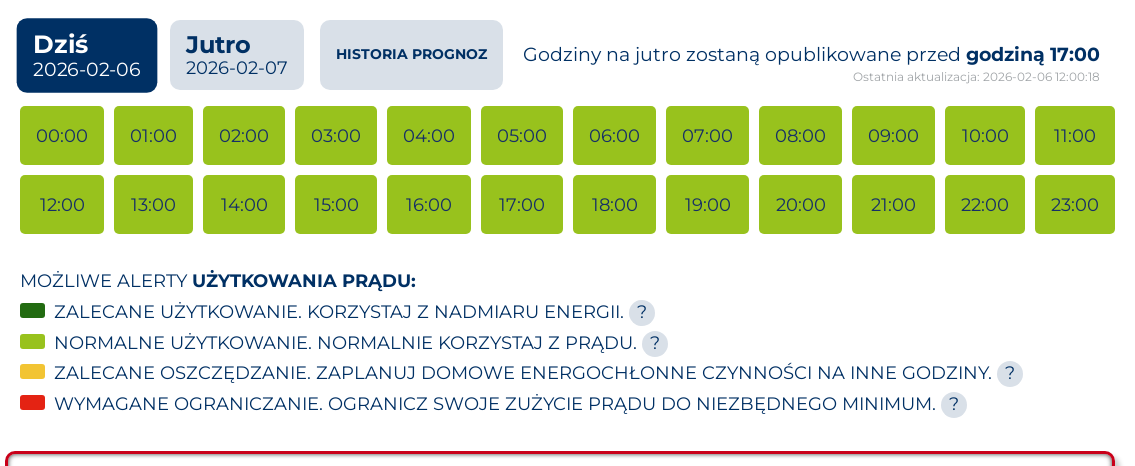
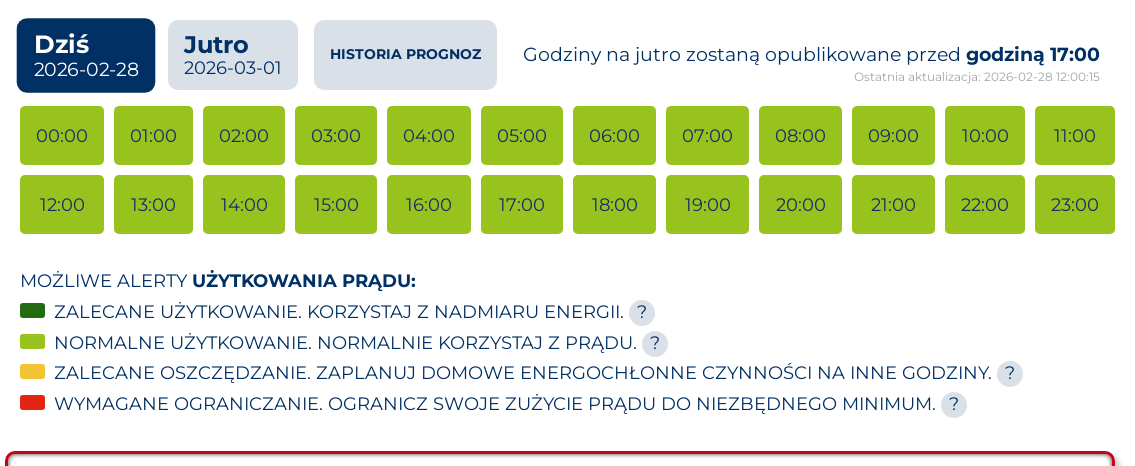
site: update 2026-02-28 12:00 UTC

Changed region(s): [[0.0925, 0.0601, 0.4626, 0.1803], [0.7401, 0.1502, 0.9559, 0.1803], [0.0308, 0.0901, 0.0925, 0.1202]]

diff --git a/site/html_02_raport_ze_stanu_teraz.html b/site/html_02_raport_ze_stanu_teraz.html
@@ -18,7 +18,7 @@
   </div>
 
   <section class="hero">
-    <div class="kicker">Ostatni odczyt: 28.02.2026 12:45</div>
+    <div class="kicker">Ostatni odczyt: 28.02.2026 13:00</div>
     <h1>Raport ze stanu teraz</h1>
     <p>
       Taryfy Tauron:
@@ -42,7 +42,7 @@
       <tbody>
         <tr>
           <th style="width:40%;">Czas odczytu</th>
-          <td>28.02.2026 12:45</td>
+          <td>28.02.2026 13:00</td>
         </tr>
         <tr>
           <th>Położenie</th>
@@ -62,11 +62,11 @@
       <tbody>
         <tr>
           <th style="width:40%;">Produkcja PV dzisiaj [kWh]</th>
-          <td>3.10</td>
+          <td>3.60</td>
         </tr>
         <tr>
           <th>Zużycie energii dzisiaj [kWh]</th>
-          <td>5.00</td>
+          <td>5.40</td>
         </tr>
         <tr>
           <th>Energia pobrana z sieci dzisiaj [kWh]</th>
@@ -78,11 +78,11 @@
         </tr>
         <tr>
           <th>Zużycie z własnego systemu dzisiaj [kWh]</th>
-          <td>1.90</td>
+          <td>2.30</td>
         </tr>
         <tr>
           <th>Wyjście inwertera dzisiaj [kWh]</th>
-          <td>1.90</td>
+          <td>2.30</td>
         </tr>
       </tbody>
     </table>
@@ -102,7 +102,7 @@
         </tr>
         <tr>
           <th>Moc do domu [W]</th>
-          <td>320</td>
+          <td>0</td>
         </tr>
         <tr>
           <th>Moc z / do sieci [W]</th>
@@ -110,7 +110,7 @@
         </tr>
         <tr>
           <th>Moc z / do baterii [W]</th>
-          <td>320</td>
+          <td>0</td>
         </tr>
       </tbody>
     </table>
@@ -122,15 +122,15 @@
       <tbody>
         <tr>
           <th style="width:40%;">Stan naładowania baterii SOC [%]</th>
-          <td>68.0</td>
+          <td>69.0</td>
         </tr>
         <tr>
           <th>Tryb pracy baterii</th>
-          <td>Charging</td>
+          <td>Standby</td>
         </tr>
         <tr>
           <th>Dostępna energia w baterii [kWh]</th>
-          <td>7.20</td>
+          <td>7.30</td>
         </tr>
       </tbody>
     </table>
@@ -150,7 +150,7 @@
         </tr>
         <tr>
           <th>Napięcie [V]</th>
-          <td>240.41</td>
+          <td>247.47</td>
         </tr>
         <tr>
           <th>Prąd [A]</th>

diff --git a/site/html_03_g13_g14_porownanie.html b/site/html_03_g13_g14_porownanie.html
@@ -18,7 +18,7 @@
   </div>
 
   <section class="hero">
-    <div class="kicker">Ceny sprzedaży i zakupu energii oraz tryb SolaX (ostatni odczyt: 2026-02-28 12:45:00, strona wygenerowana 2026-02-28 12:45:13)</div>
+    <div class="kicker">Ceny sprzedaży i zakupu energii oraz tryb SolaX (ostatni odczyt: 2026-02-28 13:00:00, strona wygenerowana 2026-02-28 13:00:29)</div>
     <h1>Ceny energii i tryb SolaX</h1>
     <p>
       Taryfy Tauron:
@@ -44,15 +44,15 @@
       <tbody>
         <tr>
           <td>Cena sprzedaży energii (SELL)</td>
-          <td>0,747</td>
+          <td>0,779</td>
         </tr>
         <tr>
           <td>Cena zakupu energii w taryfie G13</td>
-          <td>0,900</td>
+          <td>0,690</td>
         </tr>
         <tr>
           <td>Cena zakupu energii w taryfie G14</td>
-          <td>0,857</td>
+          <td>0,889</td>
         </tr>
       </tbody>
     </table>

diff --git a/site/html_01_tabele_wykresy_g14_today_tomorrow.html b/site/html_01_tabele_wykresy_g14_today_tomorrow.html
@@ -144,7 +144,7 @@
 <section class="hero">
   <div class="kicker">Dane</div>
   <h1>Taryfa — dzisiaj i jutro</h1>
-  <p class="muted">Strona wygenerowana: 2026-02-06 13:00:33</p>
+  <p class="muted">Strona wygenerowana: 2026-02-28 13:00:28</p>
   <p class="muted">Dane (dzisiaj) — ostatnia próbka: 2026-02-06 23:45:00</p>
   <p class="muted">Dane (jutro) — ostatnia próbka: brak danych</p>
 </section>
@@ -860,7 +860,7 @@
 
 <section class="content">
   <h2>Jutro</h2>
-  <p class="muted">Dzień danych: 2026-02-07</p>
+  <p class="muted">Dzień danych: 2026-03-01</p>
 
   <p class="notice-tomorrow"><strong>Dane na jutro dostępne będą po 14 stej</strong></p>
 
